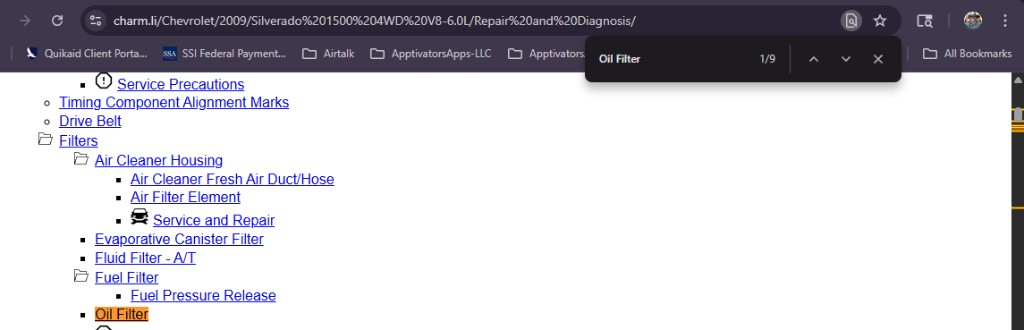
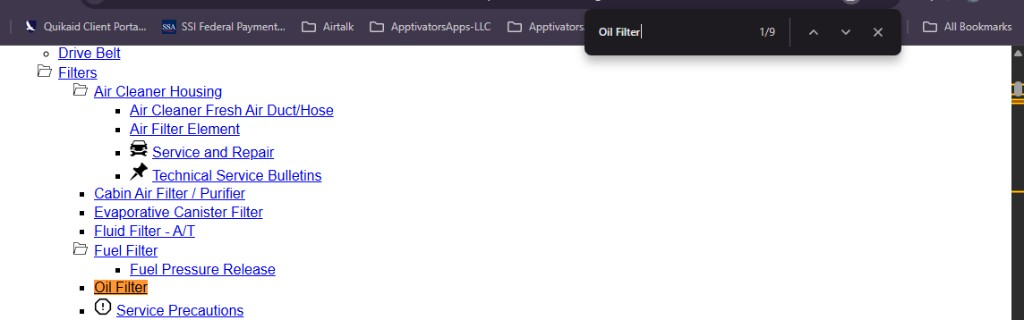
Catalog help: step 5 match-count image, new-tab screenshots, README docs
- Five-step How to use strip; hint covers steps 3–5; linked PNGs open full size in new tab
- Add picker-help-find-match-count.png (find bar 1/N detail); refresh find example PNG
- Styles for inline-sm help figure; README table + help-image file list and behavior

Made-with: Cursor

Changed region(s): [[0.0, 0.0, 1.0, 1.0], [0.7188, 0.0625, 0.7812, 0.125], [0.9688, 0.5938, 1.0, 0.6562]]

diff --git a/catalog/index.html b/catalog/index.html
@@ -11,6 +11,10 @@
       <h1>Pick a vehicle</h1>
       <section class="picker-directions" aria-labelledby="picker-directions-title">
         <h2 id="picker-directions-title" class="picker-directions-title">How to use this picker</h2>
+        <p class="picker-directions-hint">
+          Click the screenshots in steps 3–5 to open the <strong>full PNG</strong> in a <strong>new tab</strong> (native
+          pixel size; use the browser zoom if you want it larger on screen).
+        </p>
         <ol class="picker-directions-steps">
           <li>
             Make your selection below using <strong>Make</strong>, <strong>Year</strong>, <strong>Model</strong>, and
@@ -25,27 +29,66 @@
             On the charm.li manual page, click <strong>Expand All (for easy ctrl+f)</strong> first. If anything is still
             collapsed, click it again until the full outline is open.
             <figure class="picker-directions-figure">
-              <img
-                src="picker-help-expand-all.png"
-                width="360"
-                alt="Expand All (for easy ctrl+f) button on a charm.li manual page"
-                loading="lazy"
-              />
+              <a
+                class="picker-directions-figure-link"
+                href="picker-help-expand-all.png"
+                target="_blank"
+                rel="noopener noreferrer"
+                title="Open full-size image in a new tab"
+              >
+                <img
+                  src="picker-help-expand-all.png"
+                  width="360"
+                  alt="Expand All (for easy ctrl+f) button on a charm.li manual page"
+                  loading="lazy"
+                />
+              </a>
             </figure>
           </li>
           <li>
             Press <kbd>Ctrl</kbd>+<kbd>F</kbd> on Windows or Linux, or <kbd>Cmd</kbd>+<kbd>F</kbd> on Mac. That opens
             your browser’s find box so you can search all expanded text on the page.
             <figure class="picker-directions-figure">
-              <img
-                src="picker-help-find-in-page.png"
-                width="360"
-                alt="Operation CHARM manual on charm.li with browser Find open (example: searching for Oil Filter; matches highlighted in the outline)"
-                loading="lazy"
-              />
+              <a
+                class="picker-directions-figure-link"
+                href="picker-help-find-in-page.png"
+                target="_blank"
+                rel="noopener noreferrer"
+                title="Open full-size image in a new tab"
+              >
+                <img
+                  src="picker-help-find-in-page.png"
+                  width="360"
+                  alt="Operation CHARM manual on charm.li with browser Find open (example: searching for Oil Filter; matches highlighted in the outline)"
+                  loading="lazy"
+                />
+              </a>
             </figure>
           </li>
-          <li>The same expand-then-search steps work on both Repair and Diagnosis and Parts and Labor.</li>
+          <li>
+            <strong>Click the image above to enlarge it</strong> (full tab). In that larger view you can see your search
+            text in the find box, matches <strong>highlighted</strong> in the outline, and the match counter (for example
+            <strong>1/9</strong> — first of nine matches), as in this detail:
+            <figure class="picker-directions-figure picker-directions-figure-inline-sm">
+              <a
+                class="picker-directions-figure-link"
+                href="picker-help-find-match-count.png"
+                target="_blank"
+                rel="noopener noreferrer"
+                title="Open full-size image in a new tab"
+              >
+                <img
+                  src="picker-help-find-match-count.png"
+                  width="211"
+                  height="52"
+                  alt="Browser find bar: search text Oil Filter and match counter showing 1 of 9"
+                  loading="lazy"
+                />
+              </a>
+            </figure>
+            The same expand-then-search steps work on both <strong>Repair and Diagnosis</strong> and
+            <strong>Parts and Labor</strong>.
+          </li>
         </ol>
       </section>
     </header>

diff --git a/catalog/styles.css b/catalog/styles.css
@@ -61,6 +61,13 @@ body {
   color: var(--text);
 }
 
+.picker-directions-hint {
+  margin: 0 0 0.75rem;
+  font-size: 0.82rem;
+  color: var(--muted);
+  line-height: 1.45;
+}
+
 .picker-directions-steps {
   margin: 0;
   padding-left: 1.25rem;
@@ -86,13 +93,45 @@ body {
   padding: 0;
 }
 
-.picker-directions-figure img {
+.picker-directions-figure-link {
   display: block;
   max-width: min(100%, 19rem);
   width: 100%;
-  height: auto;
   border-radius: 6px;
   border: 1px solid var(--border);
+  overflow: hidden;
+  line-height: 0;
+  cursor: zoom-in;
+  text-decoration: none;
+  color: inherit;
+}
+
+.picker-directions-figure-link:hover {
+  border-color: var(--accent);
+}
+
+.picker-directions-figure-link:focus-visible {
+  outline: 2px solid var(--accent);
+  outline-offset: 2px;
+}
+
+.picker-directions-figure-link img {
+  display: block;
+  width: 100%;
+  height: auto;
+  border: none;
+  border-radius: 0;
+}
+
+/* Small crop (e.g. find bar + 1/9) — don’t stretch to full help-card width */
+.picker-directions-figure-inline-sm .picker-directions-figure-link {
+  max-width: fit-content;
+  width: auto;
+}
+
+.picker-directions-figure-inline-sm .picker-directions-figure-link img {
+  width: auto;
+  max-width: 100%;
 }
 
 .picker-directions kbd {

diff --git a/README.md b/README.md
@@ -58,12 +58,22 @@ http://127.0.0.1:8080/catalog/
 | Area | Contents |
 |------|-----------|
 | **Title** | *Pick a vehicle* |
-| **How to use this picker** | Short steps under the title (with screenshots): expand the manual on charm.li with **Expand All (for easy ctrl+f)**, then use the browser find bar (**Ctrl+F** / **Cmd+F**) to jump through matches in the outline (README reference image shows a real charm.li **Repair and Diagnosis** search example). Same idea for **Parts and Labor**. |
+| **How to use this picker** | **Five** short steps under the title, with PNG examples from `catalog/`: pick filters → **Manual** link → **Expand All** on charm.li → **Ctrl+F** / **Cmd+F** to find text → note match highlights and **1/N** counter. **Click any help screenshot** to open that PNG in a **new tab** at full resolution (inline images are scaled for layout). Same expand-then-search flow for **Repair and Diagnosis** and **Parts and Labor**. |
 | **Filters** | **Make**, **Year**, **Model**, and **Engine** (labeled *from folder title* for manifest-derived rows). |
 | **CHARM menu section** | Dropdown: *Vehicle menu (root)*, *Repair and Diagnosis*, or *Parts and Labor*. **Disabled** until you choose a **remote** charm.li vehicle (no local export for that make/year); it only adjusts the URL opened by the manual link. |
 | **Hint** | Short line: open Operation CHARM in a **new tab** from the manual link. |
 | **Manual** | Status text (e.g. *Select a make.*) and, after you narrow choices, one or more links to local `index.html` / PDF or charm.li. |
 | **Footer** | *Picker Built By* <mark>Gam3rGoon</mark>/<mark>MasterTech-Pro</mark> *— Manuals:* link to [charm.li](https://charm.li/) and **[ATTRIBUTION.md](./ATTRIBUTION.md)**. |
+
+**Help images shipped in `catalog/`** (used on the live page at `http://127.0.0.1:8080/catalog/`):
+
+| PNG | Role |
+|-----|------|
+| [`picker-help-expand-all.png`](./catalog/picker-help-expand-all.png) | Step **3**: **Expand All (for easy ctrl+f)** on a charm.li manual. |
+| [`picker-help-find-in-page.png`](./catalog/picker-help-find-in-page.png) | Step **4**: browser **Find** on charm.li (wider example, e.g. outline + search). |
+| [`picker-help-find-match-count.png`](./catalog/picker-help-find-match-count.png) | Step **5**: find bar detail — search text and match counter (**e.g. 1/9**). |
+
+**Behavior:** Each image is a normal link (`target="_blank"`). Opening the full PNG in a new tab avoids iframe/modal issues and matches what you see when serving the repo with `python -m http.server 8080` and visiting **`/catalog/`**.
 
 Longer setup and indexing notes stay in this README.
 
@@ -128,7 +138,8 @@ To add more **local** manuals, either add a folder name to **`charmDirs`**, or p
    (`-b 127.0.0.1` avoids some IPv6/localhost quirks on Windows.)
 
 3. Open **`http://127.0.0.1:8080/catalog/`** (or `http://localhost:8080/catalog/`).
-4. Use **Make → Year → Model → Engine**. For **remote** CHARM rows, optionally set **CHARM menu section**, then click a **Manual** link (opens in a new tab).
+4. Read **How to use this picker** at the top; **click** any help screenshot to open it full-size in a new tab.
+5. Use **Make → Year → Model → Engine**. For **remote** CHARM rows, optionally set **CHARM menu section**, then click a **Manual** link (opens in a new tab).
 
 **Reference** — screenshot of the picker at `http://127.0.0.1:8080/catalog/` (dark theme): **How to use this picker** (including the in-browser find example), then **Make** / **Year** and the rest of the flow.
 
